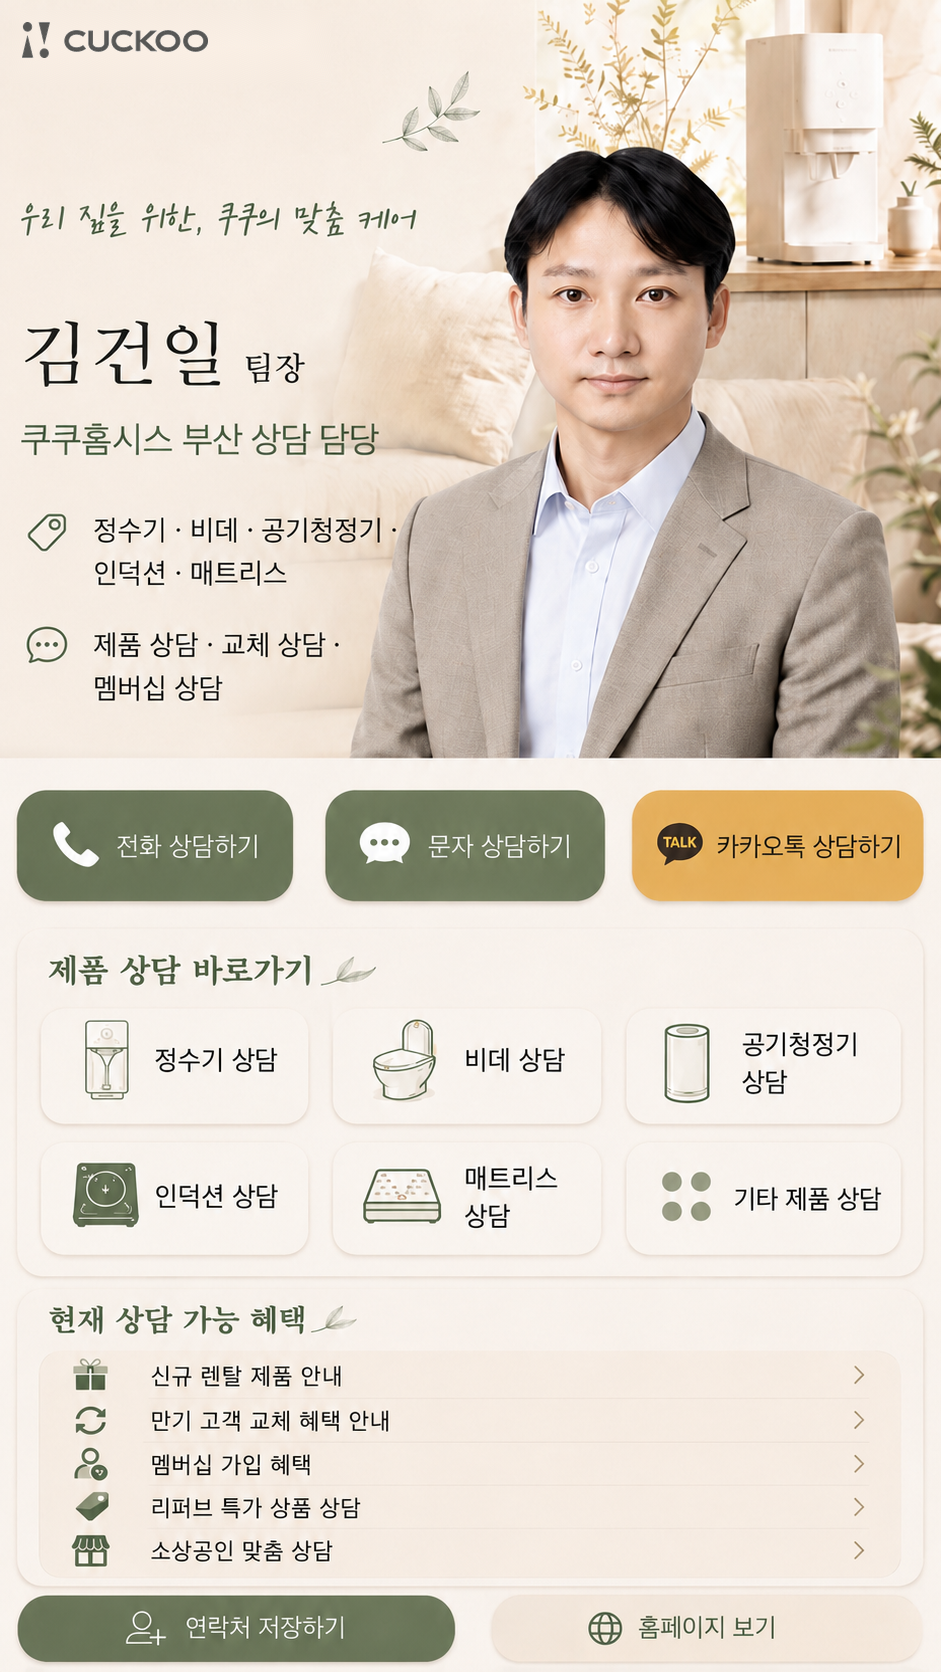
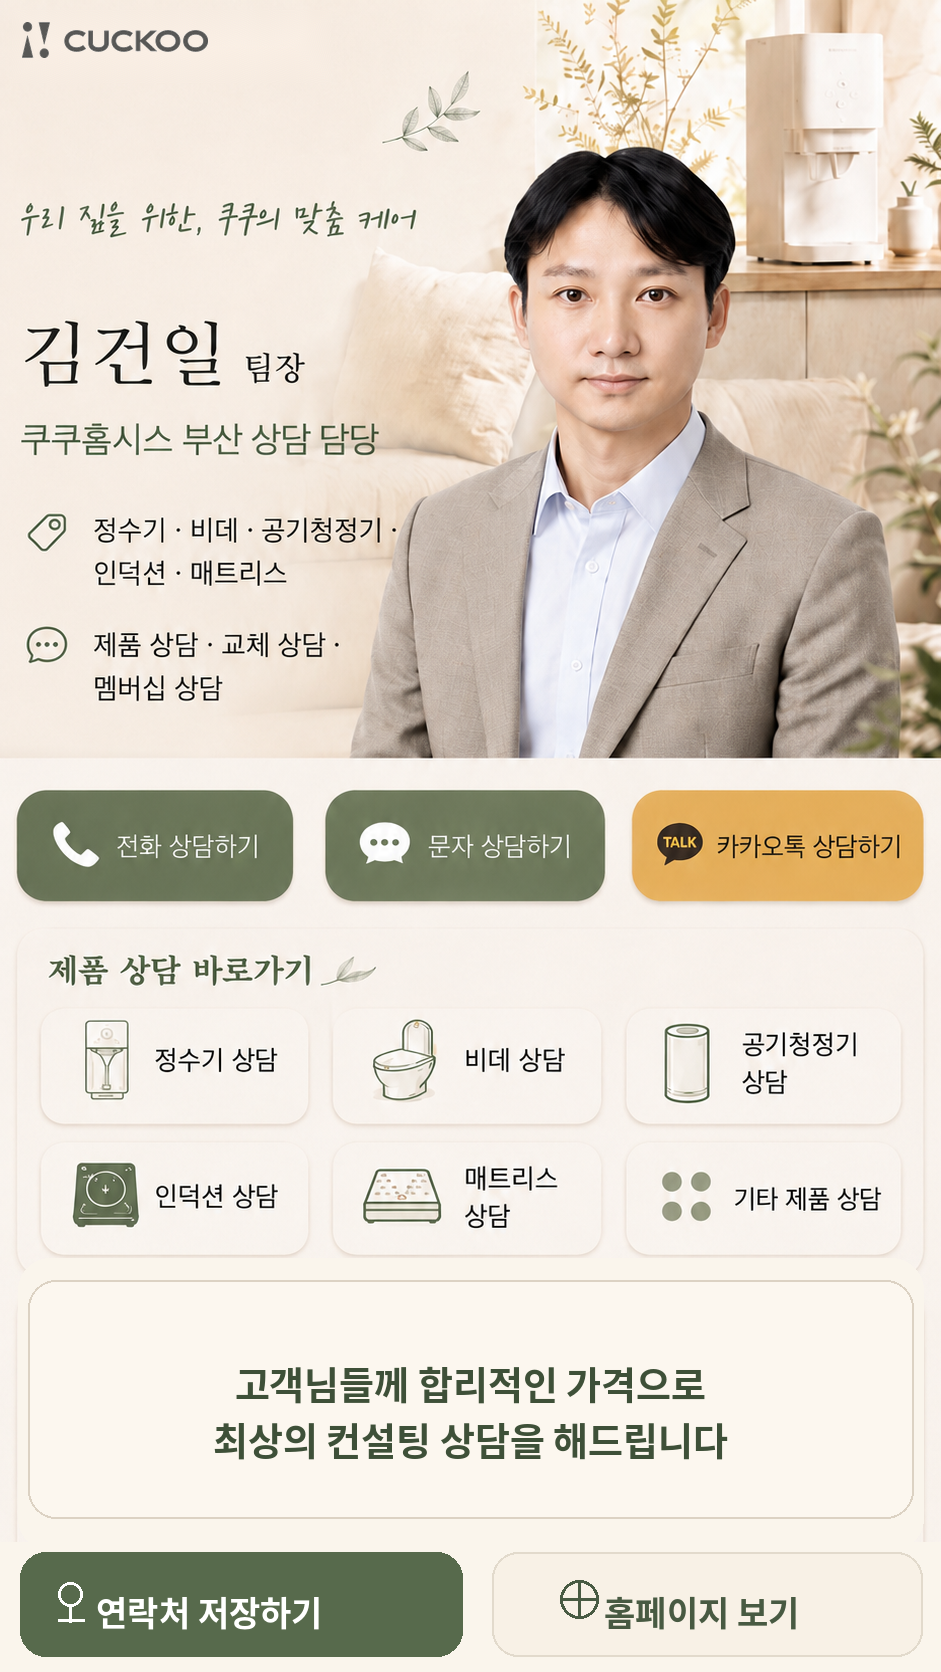
Add files via upload

Changed region(s): [[0.0, 0.7775, 0.7705, 0.9952], [0.5855, 0.933, 0.8321, 0.9952], [0.8937, 0.9019, 0.9245, 0.933]]

diff --git a/index.html b/index.html
@@ -1,139 +1,144 @@
 <!doctype html>
-<html lang='ko'>
+<html lang="ko">
 <head>
-<meta charset='utf-8'>
-<meta name='viewport' content='width=device-width, initial-scale=1, viewport-fit=cover'>
+<meta charset="utf-8" />
+<meta name="viewport" content="width=device-width, initial-scale=1, viewport-fit=cover" />
 <title>쿠쿠 렌탈 김건일 팀장 디지털 명함</title>
 <style>
-*{box-sizing:border-box}
-html,body{margin:0;padding:0;background:#f4efe7;font-family:-apple-system,BlinkMacSystemFont,"Apple SD Gothic Neo","Pretendard","Noto Sans KR",sans-serif}
-body{min-height:100svh}
-.page{width:min(100vw,520px);margin:0 auto;background:#f4efe7;min-height:100svh}
-.visual{position:relative;width:100%;line-height:0;background:#f4efe7;overflow:hidden}
-.visual img{display:block;width:100%;height:auto;line-height:0}
-.hot{position:absolute;border:0;background:rgba(255,255,255,0);z-index:5;border-radius:16px;cursor:pointer}
-.hot:active{background:rgba(0,120,255,.13)}
-.sheet-bg{position:fixed;inset:0;background:rgba(0,0,0,.38);z-index:40;opacity:0;pointer-events:none;transition:.18s}
-.sheet-bg.open{opacity:1;pointer-events:auto}
-.sheet{position:fixed;left:50%;bottom:0;transform:translate(-50%,110%);width:min(100vw,520px);background:#fff;z-index:41;border-radius:24px 24px 0 0;padding:19px 16px calc(18px + env(safe-area-inset-bottom));box-shadow:0 -18px 48px rgba(0,0,0,.25);transition:.22s;color:#20251d}
-.sheet.open{transform:translate(-50%,0)}
-.sheet h3{font-size:20px;margin:0 0 8px;letter-spacing:-.6px}
-.sheet p{font-size:14px;line-height:1.45;color:#5d6659;margin:0 0 13px}
-.links{display:grid;gap:10px}
-.sheet a,.sheet button{width:100%;min-height:54px;border:0;border-radius:16px;display:flex;align-items:center;justify-content:center;background:#66795d;color:#fff;font-size:16px;font-weight:900;text-decoration:none}
-.sheet .close{margin-top:10px;background:#eeece8;color:#20251d}
-.preview-tabs{position:sticky;top:0;z-index:20;background:rgba(244,239,231,.88);backdrop-filter:blur(12px);padding:10px}
-.preview-tabs .inner{display:grid;grid-template-columns:repeat(3,1fr);gap:7px;background:#fff;padding:6px;border-radius:999px;box-shadow:0 8px 22px rgba(0,0,0,.08)}
-.preview-tabs a{display:flex;align-items:center;justify-content:center;text-decoration:none;border-radius:999px;padding:10px 6px;font-size:13px;font-weight:900;color:#4d5c46}
-.preview-tabs a.active{background:#66795d;color:#fff}
+  * { box-sizing: border-box; }
+  html,body { margin:0; padding:0; background:#f6f0e7; font-family:-apple-system,BlinkMacSystemFont,"Apple SD Gothic Neo","Noto Sans KR","Pretendard",sans-serif; }
+  body { min-height:100svh; display:flex; justify-content:center; }
+  .page { width:min(100vw,430px); min-height:100svh; background:#f6f0e7; }
+  .card-wrap { position:relative; width:100%; max-width:430px; margin:0 auto; overflow:hidden; }
+  .card-img { display:block; width:100%; height:auto; user-select:none; -webkit-user-select:none; pointer-events:none; }
+  .hotspot { position:absolute; display:block; border:0; background:rgba(255,255,255,0); cursor:pointer; padding:0; margin:0; text-indent:-9999px; overflow:hidden; touch-action:manipulation; -webkit-tap-highlight-color:rgba(99,119,89,0.18); }
+  .hotspot:active { background:rgba(99,119,89,0.1); }
+  .sheet-bg { position:fixed; inset:0; background:rgba(0,0,0,.38); opacity:0; pointer-events:none; transition:opacity .18s ease; z-index:1000; }
+  .sheet-bg.open { opacity:1; pointer-events:auto; }
+  .sheet { position:fixed; left:50%; bottom:0; transform:translate(-50%,110%); width:min(100vw,430px); background:#fffaf1; border-radius:24px 24px 0 0; box-shadow:0 -16px 42px rgba(0,0,0,.25); padding:20px 16px calc(20px + env(safe-area-inset-bottom)); transition:transform .22s ease; z-index:1001; color:#263022; }
+  .sheet.open { transform:translate(-50%,0); }
+  .sheet h3 { margin:0 0 8px; font-size:21px; line-height:1.25; letter-spacing:-0.6px; }
+  .sheet p { margin:0 0 14px; font-size:14px; color:#66745d; line-height:1.45; }
+  .sheet-links { display:grid; gap:10px; }
+  .sheet-links a, .sheet-close { min-height:56px; border-radius:16px; border:0; text-decoration:none; display:flex; align-items:center; justify-content:center; font-size:17px; font-weight:800; color:#fff; background:#637759; }
+  .sheet-close { width:100%; margin-top:10px; color:#263022; background:#eee8dc; }
 </style>
 </head>
 <body>
-<main class='page'>
-
-<div class='preview-tabs'>
-  <div class='inner'>
-    <a href='card1.html' class='active'>시안 1</a>
-    <a href='card2.html' class=''>시안 2</a>
-    <a href='card3.html' class=''>시안 3</a>
-  </div>
-</div>
-
-<section class='visual'>
-<img src='assets/card1.png' alt='쿠쿠 렌탈 김건일 팀장 디지털 명함'>
-
-<button class='hot' style='left:3%;top:47.2%;width:29%;height:6.6%' data-action='call'></button>
-<button class='hot' style='left:34%;top:47.2%;width:29%;height:6.6%' data-action='sms'></button>
-<button class='hot' style='left:65%;top:47.2%;width:32%;height:6.6%' data-action='kakao'></button>
-<button class='hot' style='left:4%;top:60.0%;width:29%;height:7.5%' data-product='정수기'></button>
-<button class='hot' style='left:35%;top:60.0%;width:29%;height:7.5%' data-product='비데'></button>
-<button class='hot' style='left:66%;top:60.0%;width:30%;height:7.5%' data-product='공기청정기'></button>
-<button class='hot' style='left:4%;top:68.0%;width:29%;height:7.5%' data-product='안마의자'></button>
-<button class='hot' style='left:35%;top:68.0%;width:29%;height:7.5%' data-product='매트리스'></button>
-<button class='hot' style='left:66%;top:68.0%;width:30%;height:7.5%' data-product='기타 제품'></button>
-<button class='hot' style='left:2%;top:93.0%;width:47%;height:6.7%' data-action='save'></button>
-<button class='hot' style='left:51%;top:93.0%;width:47%;height:6.7%' data-action='home'></button>
-
-</section>
+<main class="page">
+  <section class="card-wrap" aria-label="쿠쿠 렌탈 김건일 팀장 디지털 명함">
+    <img class="card-img" src="assets/card_latest.png" alt="쿠쿠 렌탈 김건일 팀장 디지털 명함" />
+    <div id="hotspots"></div>
+  </section>
 </main>
-
-<div id='sheetBg' class='sheet-bg'></div>
-<div id='sheet' class='sheet'>
-  <h3 id='sheetTitle'>상담 연결</h3>
-  <p id='sheetDesc'>원하시는 연결 방식을 선택해 주세요.</p>
-  <div id='sheetLinks' class='links'></div>
-  <button id='sheetClose' class='close'>닫기</button>
-</div>
-
+<div id="sheetBg" class="sheet-bg"></div>
+<section id="sheet" class="sheet" aria-modal="true" role="dialog">
+  <h3 id="sheetTitle">상담 연결</h3>
+  <p id="sheetDesc">원하시는 연결 방식을 선택해 주세요.</p>
+  <div id="sheetLinks" class="sheet-links"></div>
+  <button id="sheetClose" class="sheet-close" type="button">닫기</button>
+</section>
 <script>
-const TEL1='01083461500';
-const TEL2='01083437150';
-const KAKAO='https://pf.kakao.com/_zzxebX/friend';
-function smsHref(num,body){
-  const e=encodeURIComponent(body);
-  const sep=/iPhone|iPad|iPod/i.test(navigator.userAgent) ? '&' : '?';
-  return `sms:${num}${sep}body=${e}`;
+const IMG_W = 941;
+const IMG_H = 1672;
+const TEL1 = '01083461500';
+const TEL2 = '01083437150';
+const KAKAO = 'https://pf.kakao.com/_zzxebX/friend';
+const HOME = 'https://github.com/kiuja78/cuckoo';
+const hotspots = [{"name": "전화 상담하기", "action": "call", "x": 32, "y": 733, "w": 289, "h": 102}, {"name": "문자 상담하기", "action": "sms", "x": 336, "y": 733, "w": 273, "h": 102}, {"name": "카카오톡 상담하기", "action": "kakao", "x": 626, "y": 733, "w": 305, "h": 102}, {"name": "정수기 상담", "action": "product", "product": "정수기", "x": 48, "y": 958, "w": 285, "h": 145}, {"name": "비데 상담", "action": "product", "product": "비데", "x": 346, "y": 958, "w": 269, "h": 145}, {"name": "공기청정기 상담", "action": "product", "product": "공기청정기", "x": 628, "y": 958, "w": 272, "h": 145}, {"name": "안마의자 상담", "action": "product", "product": "안마의자", "x": 48, "y": 1114, "w": 285, "h": 148}, {"name": "매트리스 상담", "action": "product", "product": "매트리스", "x": 346, "y": 1114, "w": 269, "h": 148}, {"name": "기타 제품 상담", "action": "product", "product": "기타 제품", "x": 628, "y": 1114, "w": 272, "h": 148}, {"name": "연락처 저장하기", "action": "save", "x": 27, "y": 1521, "w": 418, "h": 104}, {"name": "홈페이지 보기", "action": "home", "x": 469, "y": 1521, "w": 435, "h": 104}];
+function pct(v,t) { return (v/t*100).toFixed(5)+'%'; }
+function smsHref(num, body) {
+  const encoded = encodeURIComponent(body);
+  const isIOS = /iPhone|iPad|iPod/i.test(navigator.userAgent || '');
+  return `sms:${num}${isIOS ? '&' : '?'}body=${encoded}`;
 }
-function openSheet(title,desc,links){
-  document.getElementById('sheetTitle').textContent=title;
-  document.getElementById('sheetDesc').textContent=desc||'';
-  document.getElementById('sheetLinks').innerHTML=links.map(l=>`<a href="${l.href}" ${l.target?'target="_blank" rel="noopener"':''}>${l.label}</a>`).join('');
+function showSheet(title, desc, links) {
+  document.getElementById('sheetTitle').textContent = title;
+  document.getElementById('sheetDesc').textContent = desc || '원하시는 연결 방식을 선택해 주세요.';
+  const box = document.getElementById('sheetLinks');
+  box.innerHTML = '';
+  links.forEach(item => {
+    const a = document.createElement('a');
+    a.textContent = item.label;
+    a.href = item.href;
+    if (item.target) { a.target = '_blank'; a.rel = 'noopener'; }
+    box.appendChild(a);
+  });
   document.getElementById('sheetBg').classList.add('open');
   document.getElementById('sheet').classList.add('open');
 }
-function closeSheet(){
+function closeSheet() {
   document.getElementById('sheetBg').classList.remove('open');
   document.getElementById('sheet').classList.remove('open');
 }
-function saveContact(){
-  const isAndroid=/Android/i.test(navigator.userAgent||'');
-  if(isAndroid){
-    const intent='intent://contacts/create#Intent;action=android.intent.action.INSERT;type=vnd.android.cursor.dir/contact;S.name=쿠쿠 렌탈 김건일 팀장;S.phone=01083461500;S.secondary_phone=01083437150;S.company=쿠쿠홈시스 부산(CUCKOO);end';
-    location.href=intent;
-    setTimeout(()=>{location.href='cuckoo_kimgeonil.vcf';},1500);
-  }else{
-    location.href='cuckoo_kimgeonil.vcf';
+function saveContact() {
+  const isAndroid = /Android/i.test(navigator.userAgent || '');
+  if (isAndroid) {
+    const intentUrl = 'intent://contacts/create#Intent;'+
+      'action=android.intent.action.INSERT;'+
+      'type=vnd.android.cursor.dir/contact;'+
+      'S.name=쿠쿠 렌탈 김건일 팀장;'+
+      'S.phone=01083461500;'+
+      'S.secondary_phone=01083437150;'+
+      'S.company=쿠쿠홈시스 부산(CUCKOO);'+
+      'end';
+    window.location.href = intentUrl;
+    setTimeout(() => { window.location.href = 'cuckoo_kimgeonil.vcf'; }, 1200);
+  } else {
+    window.location.href = 'cuckoo_kimgeonil.vcf';
   }
 }
-function bind(root){
-  root.querySelectorAll('[data-action]').forEach(el=>{
-    el.addEventListener('click',()=>{
-      const a=el.dataset.action;
-      if(a==='call'){
-        openSheet('전화 상담 연결','원하시는 연결 방식을 선택해 주세요.',[
-          {label:'전화상담연결1',href:`tel:${TEL1}`},
-          {label:'전화상담연결2',href:`tel:${TEL2}`}
-        ]);
-      }else if(a==='sms'){
-        const body='쿠쿠 제품 상담 문의드립니다.';
-        openSheet('문자 상담 요청','원하시는 연결 방식을 선택해 주세요.',[
-          {label:'문자상담요청1',href:smsHref(TEL1,body)},
-          {label:'문자상담요청2',href:smsHref(TEL2,body)}
-        ]);
-      }else if(a==='kakao'){
-        location.href=KAKAO;
-      }else if(a==='save'){
-        saveContact();
-      }else if(a==='home'){
-        window.open('https://github.com/kiuja78/cuckoo','_blank','noopener');
-      }
-    });
-  });
-  root.querySelectorAll('[data-product]').forEach(el=>{
-    el.addEventListener('click',()=>{
-      const item=el.dataset.product;
-      const body=`${item} 상담 문의드립니다. 쿠쿠 렌탈 김건일 팀장님 안내 부탁드립니다.`;
-      openSheet(`${item} 상담`,'원하시는 연결 방식을 선택해 주세요.',[
-        {label:'문자상담요청1',href:smsHref(TEL1,body)},
-        {label:'문자상담요청2',href:smsHref(TEL2,body)}
-      ]);
-    });
+function handleAction(item) {
+  if (item.action === 'call') {
+    showSheet('전화 상담 연결', '전화번호는 화면에 노출하지 않고 선택 버튼으로 연결합니다.', [
+      {label:'전화상담연결1', href:`tel:${TEL1}`},
+      {label:'전화상담연결2', href:`tel:${TEL2}`}
+    ]);
+    return;
+  }
+  if (item.action === 'sms') {
+    const body = '쿠쿠 제품 상담 문의드립니다.';
+    showSheet('문자 상담 요청', '문자 상담을 원하시는 연결 버튼을 선택해 주세요.', [
+      {label:'문자상담요청1', href:smsHref(TEL1, body)},
+      {label:'문자상담요청2', href:smsHref(TEL2, body)}
+    ]);
+    return;
+  }
+  if (item.action === 'kakao') {
+    window.location.href = KAKAO;
+    return;
+  }
+  if (item.action === 'product') {
+    const product = item.product || '제품';
+    const body = `${product} 상담 문의드립니다. 쿠쿠 렌탈 김건일 팀장님 안내 부탁드립니다.`;
+    showSheet(`${product} 상담`, '상담 요청을 보낼 번호를 선택해 주세요.', [
+      {label:'문자상담요청1', href:smsHref(TEL1, body)},
+      {label:'문자상담요청2', href:smsHref(TEL2, body)}
+    ]);
+    return;
+  }
+  if (item.action === 'save') { saveContact(); return; }
+  if (item.action === 'home') { window.open(HOME, '_blank', 'noopener'); return; }
+}
+function renderHotspots() {
+  const root = document.getElementById('hotspots');
+  hotspots.forEach(item => {
+    const btn = document.createElement('button');
+    btn.type = 'button';
+    btn.className = 'hotspot';
+    btn.setAttribute('aria-label', item.name);
+    btn.style.left = pct(item.x, IMG_W);
+    btn.style.top = pct(item.y, IMG_H);
+    btn.style.width = pct(item.w, IMG_W);
+    btn.style.height = pct(item.h, IMG_H);
+    btn.addEventListener('click', () => handleAction(item));
+    root.appendChild(btn);
   });
 }
-document.addEventListener('DOMContentLoaded',()=>{
-  document.querySelectorAll('.visual').forEach(bind);
-  document.getElementById('sheetBg').addEventListener('click',closeSheet);
-  document.getElementById('sheetClose').addEventListener('click',closeSheet);
+document.addEventListener('DOMContentLoaded', () => {
+  renderHotspots();
+  document.getElementById('sheetBg').addEventListener('click', closeSheet);
+  document.getElementById('sheetClose').addEventListener('click', closeSheet);
 });
 </script>
 </body>
